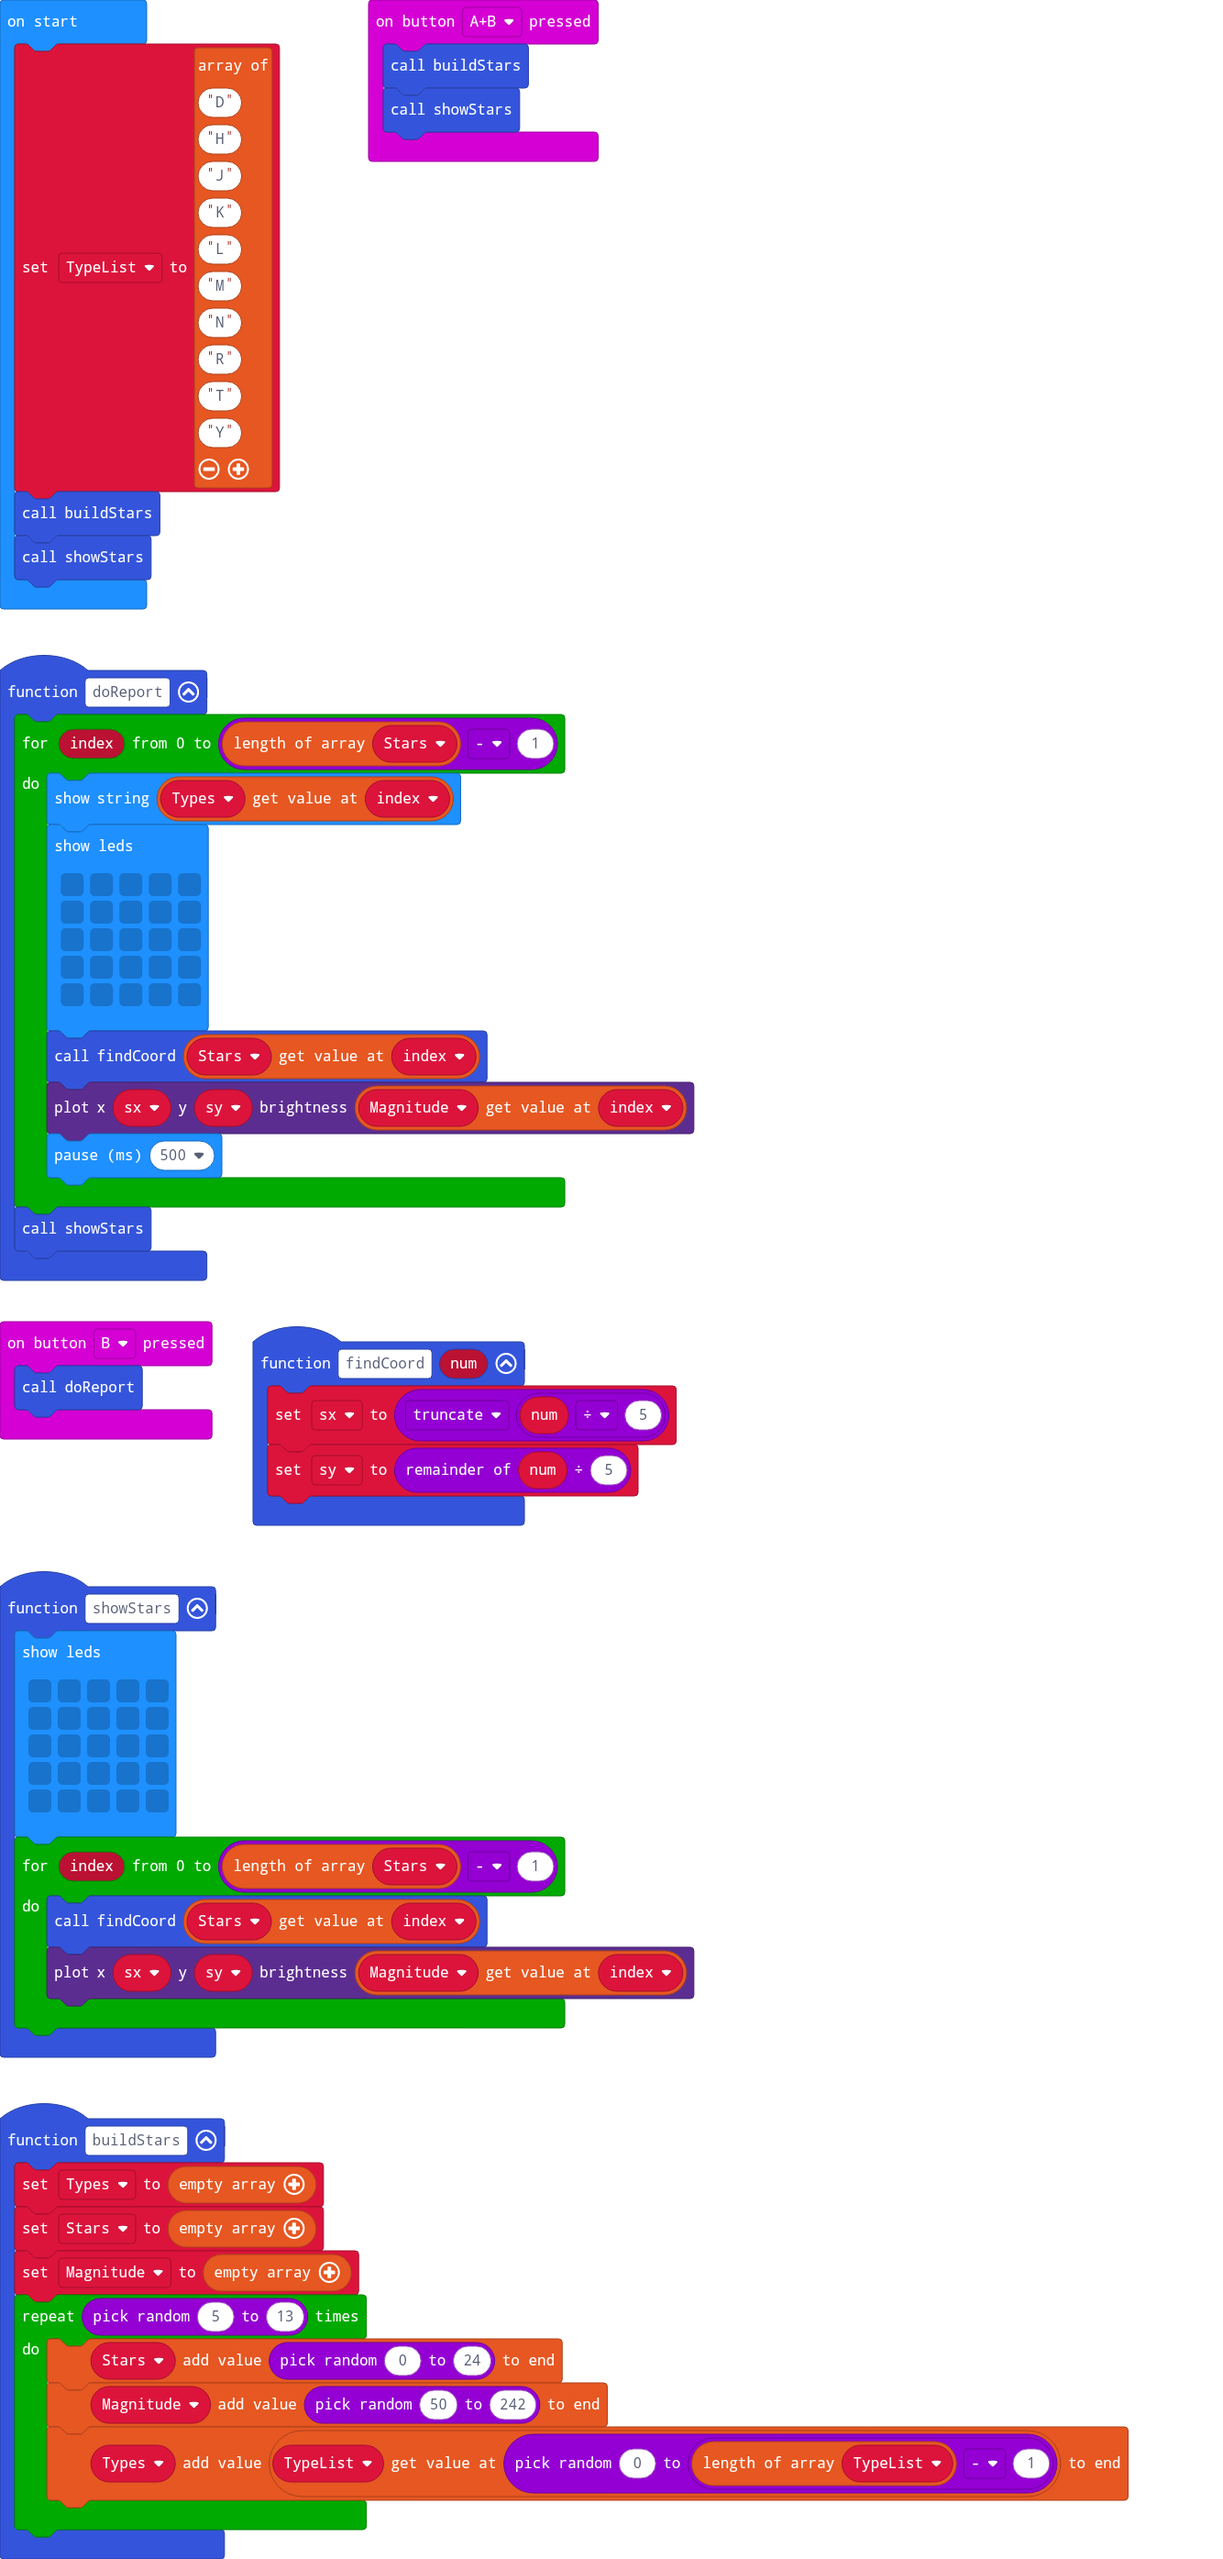
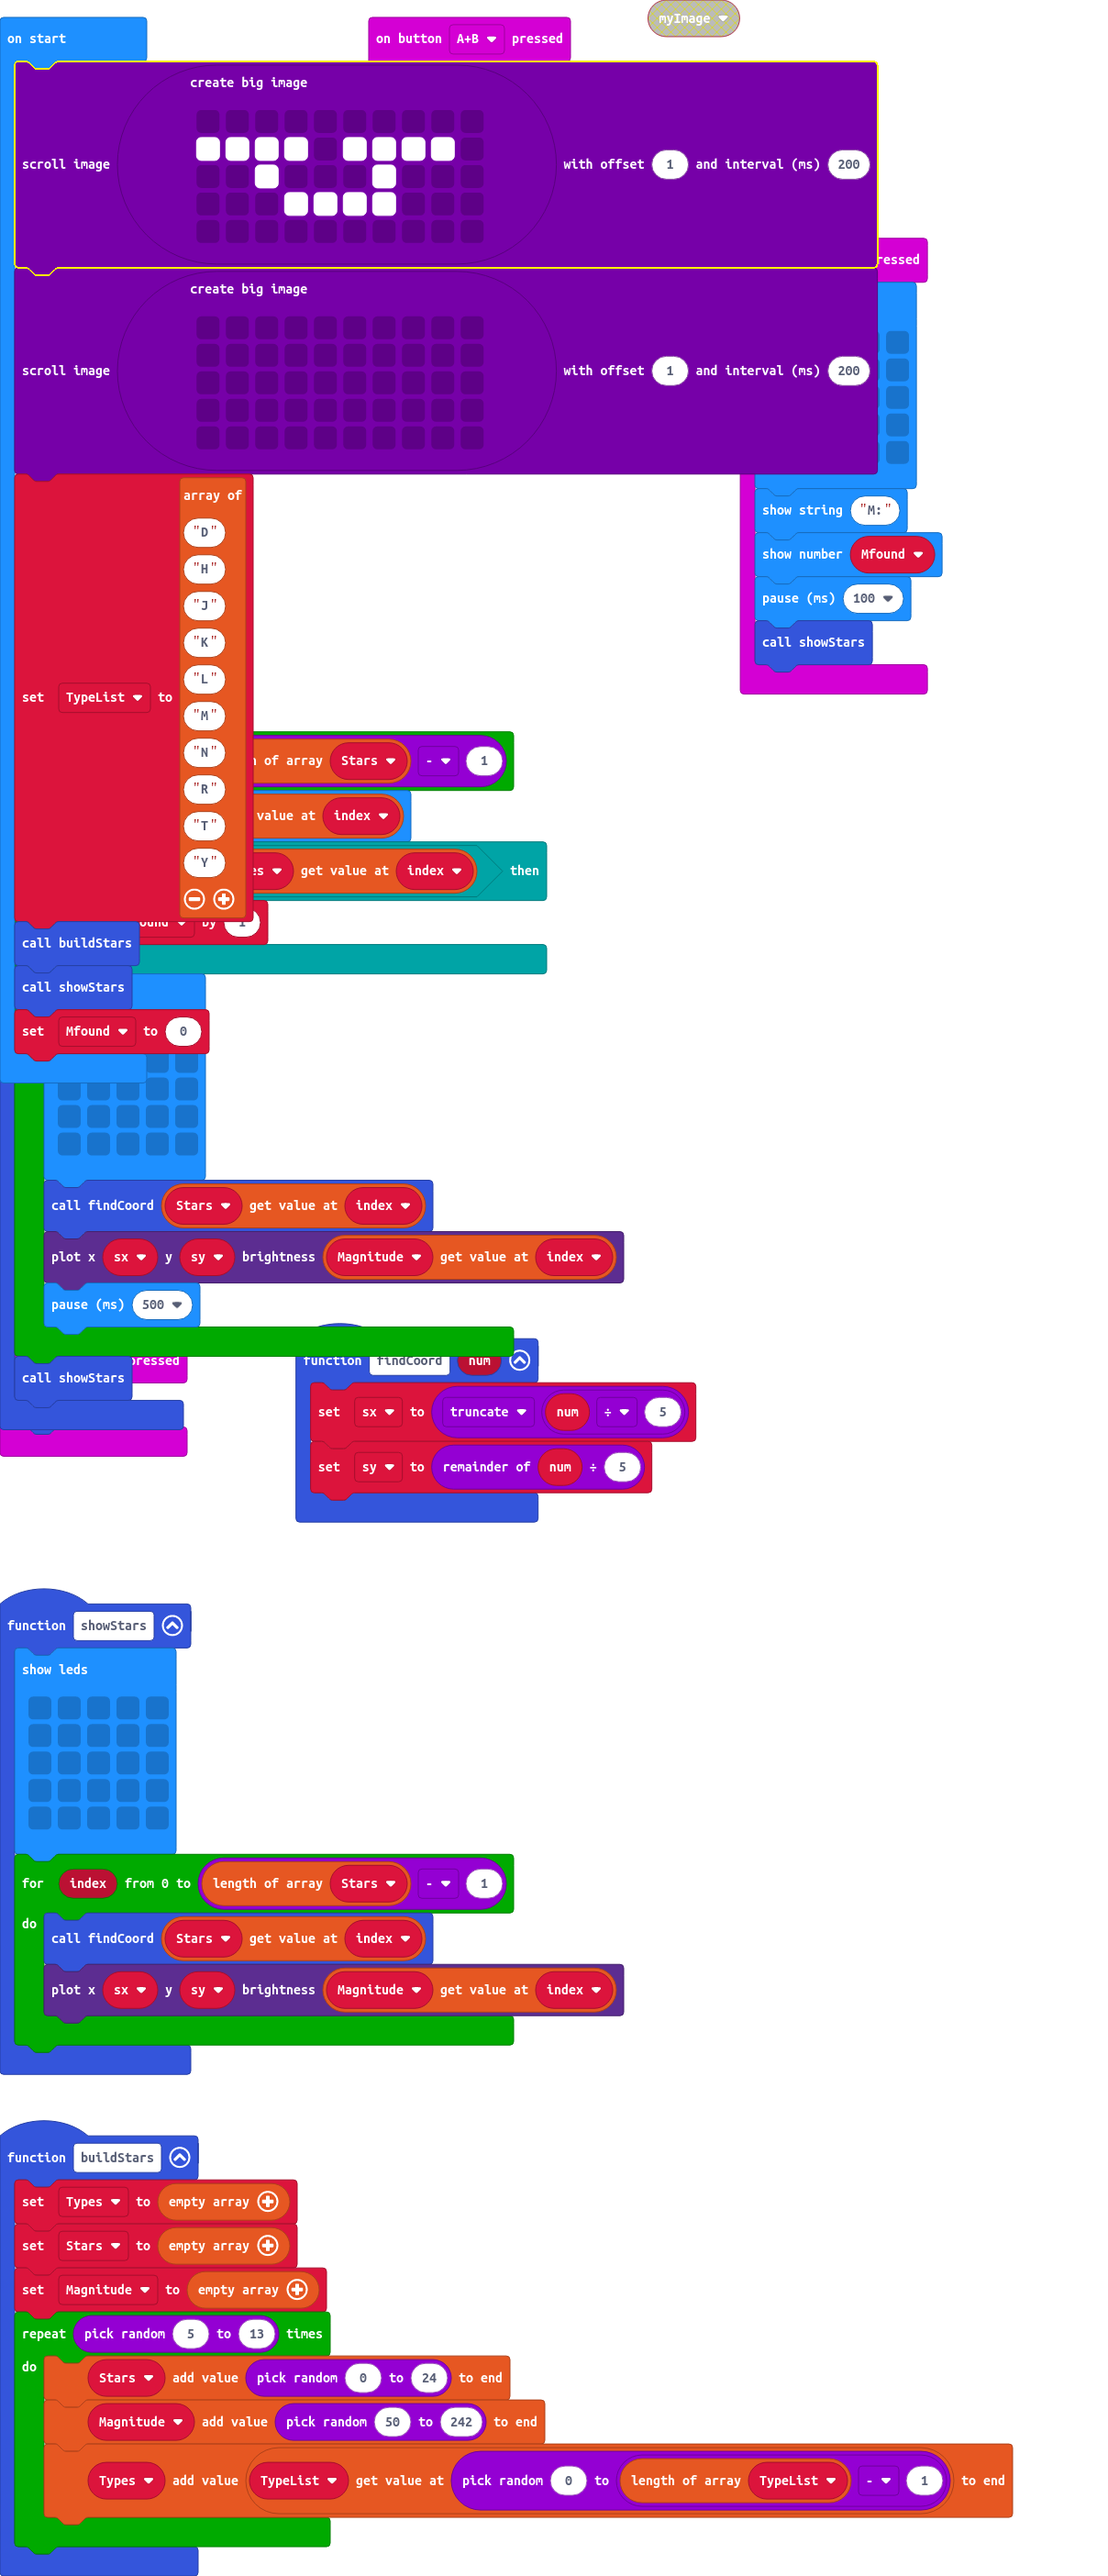
Update main.blocks, main.ts

diff --git a/main.ts b/main.ts
@@ -1,6 +1,9 @@
 function doReport () {
     for (let index = 0; index <= Stars.length - 1; index++) {
         basic.showString("" + (Types[index]))
+        if ("M" == Types[index]) {
+            Mfound += 1
+        }
         basic.showLeds(`
             . . . . .
             . . . . .
@@ -14,8 +17,26 @@ function doReport () {
     }
     showStars()
 }
+input.onButtonPressed(Button.A, function () {
+    basic.showLeds(`
+        . . . . .
+        . . . . .
+        . . . . .
+        . . . . .
+        . . . . .
+        `)
+    basic.showString("M:")
+    basic.showNumber(Mfound)
+    basic.pause(100)
+    showStars()
+})
 input.onButtonPressed(Button.AB, function () {
     buildStars()
+    for (let index = 0; index < 2; index++) {
+        basic.showIcon(IconNames.SmallDiamond)
+        basic.showIcon(IconNames.Diamond)
+        basic.showIcon(IconNames.Target)
+    }
     showStars()
 })
 input.onButtonPressed(Button.B, function () {
@@ -53,7 +74,23 @@ let sy = 0
 let sx = 0
 let Types: string[] = []
 let Stars: number[] = []
+let Mfound = 0
 let TypeList: string[] = []
+images.createBigImage(`
+    . . . . . . . . . .
+    # # # # . # # # # .
+    . . # . . . # . . .
+    . . . # # # # . . .
+    . . . . . . . . . .
+    `).scrollImage(1, 200)
+images.createBigImage(`
+    . . . . . . . . . .
+    . . . . . . . . . .
+    . . . . . . . . . .
+    . . . . . . . . . .
+    . . . . . . . . . .
+    `).scrollImage(1, 200)
 TypeList = ["D", "H", "J", "K", "L", "M", "N", "R", "T", "Y"]
 buildStars()
 showStars()
+Mfound = 0
